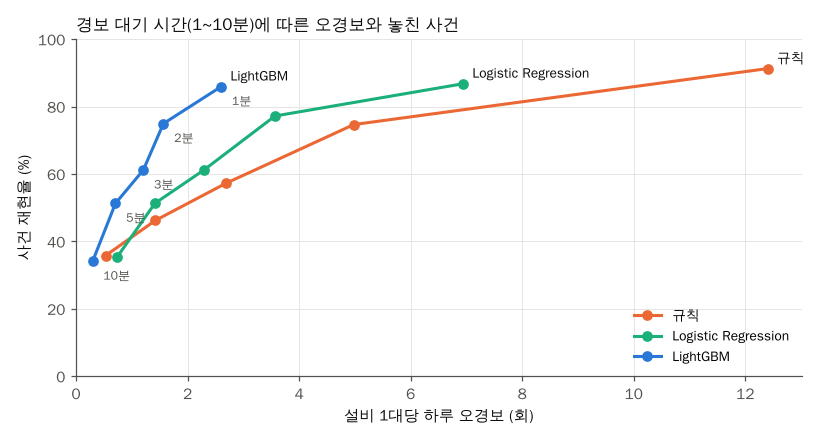
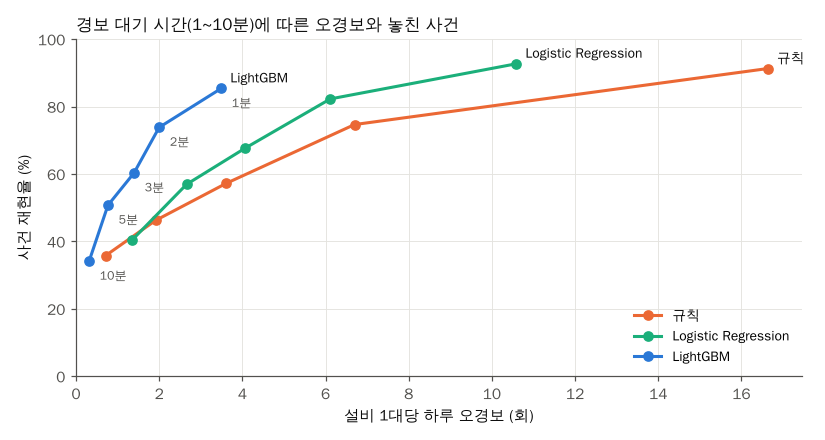
[기능/시각화] SHAP 그래프 추가, 결과 그래프 펌프 기준으로 갱신
- SHAP 상위 15개 특징, 마지막 이상 후 지난 분의 SHAP 산점도 추가
- 산점도는 이상 이력 없음 값이 오른쪽 끝에 몰려 로그 축 사용
- 무작위 기준선을 고정값(0.029) 대신 결과표의 양성 비율(0.039)에서 읽음

diff --git a/scripts/10_charts.py b/scripts/10_charts.py
@@ -15,7 +15,6 @@ from evaluate import PROJECT_ROOT, RESULTS_DIR
 # 02번 EDA 그래프와 같은 색. 세 번째 색(초록)은 배경 대비가 낮아 선마다 이름을 직접 붙임
 BLUE, ORANGE, AQUA = "#2a78d6", "#eb6834", "#1baf7a"
 INK, MUTED, GRID = "#0b0b0b", "#52514e", "#e4e3df"
-RANDOM_PR_AUC = 0.0292  # Validation 30분 양성 비율
 
 
 def set_korean_font():
@@ -30,7 +29,7 @@ def set_korean_font():
                          "grid.linewidth": 0.6, "axes.axisbelow": True, "figure.dpi": 110})
 
 
-def model_pr_auc(res, out):
+def model_pr_auc(res, out, random_pr_auc):
     order = ["규칙: 현재 전류고조파", "Logistic Regression (이력 없음 중앙값)", "Logistic Regression (이력 없음 표시)",
              "Random Forest", "LightGBM"]
     r = res.set_index("model").loc[order]
@@ -38,8 +37,9 @@ def model_pr_auc(res, out):
     ax.barh(range(len(r)), r["pr_auc"], color=BLUE, height=0.55)
     for i, v in enumerate(r["pr_auc"]):
         ax.text(v + 0.01, i, f"{v:.3f}", va="center", fontsize=9, color=INK)
-    ax.axvline(RANDOM_PR_AUC, color=MUTED, ls="--", lw=1)
-    ax.text(RANDOM_PR_AUC + 0.01, 0.5, "무작위 0.029", va="center", fontsize=8, color=MUTED)
+    # 무작위 점수의 PR-AUC는 양성 비율과 같음
+    ax.axvline(random_pr_auc, color=MUTED, ls="--", lw=1)
+    ax.text(random_pr_auc + 0.01, 0.5, f"무작위 {random_pr_auc:.3f}", va="center", fontsize=8, color=MUTED)
     ax.set_yticks(range(len(r)), r.index, fontsize=9)
     ax.invert_yaxis()
     ax.set_xlim(0, 0.85)
@@ -52,7 +52,7 @@ def model_pr_auc(res, out):
 
 
 def unit_split(res, out):
-    order = ["규칙: 현재 전류고조파", "Logistic Regression", "LightGBM"]
+    order = ["규칙", "Logistic Regression", "LightGBM"]
     p = res.pivot(index="model", columns="setting", values="pr_auc").loc[order]
     fig, ax = plt.subplots(figsize=(7.5, 3.2))
     w = 0.36
@@ -97,18 +97,63 @@ def alarm_tradeoff(res, out):
     plt.close(fig)
 
 
+def shap_top(imp, out, n=15):
+    r = imp.head(n)
+    fig, ax = plt.subplots(figsize=(7.5, 4.6))
+    ax.barh(range(len(r)), r["mean_abs_shap"], color=BLUE, height=0.6)
+    for i, (v, sh) in enumerate(zip(r["mean_abs_shap"], r["share"])):
+        ax.text(v + r["mean_abs_shap"].max() * 0.01, i, f"{sh:.1%}", va="center", fontsize=8, color=INK)
+    ax.set_yticks(range(len(r)), r["feature"], fontsize=9)
+    ax.invert_yaxis()
+    ax.grid(axis="y", visible=False)
+    ax.set_xlabel("평균 |SHAP| (log-odds)")
+    ax.set_title(f"LightGBM 예측에 크게 기여한 특징 상위 {n}개", loc="left", fontsize=11, color=INK)
+    fig.tight_layout()
+    fig.savefig(out)
+    plt.close(fig)
+
+
+def shap_dependence(d, out):
+    feature = d["feature"].iloc[0]
+    fig, ax = plt.subplots(figsize=(7.5, 4))
+    for t, color, label in [(0, BLUE, "30분 안에 이상 없음"), (1, ORANGE, "30분 안에 이상 발생")]:
+        r = d[d["target"] == t]
+        ax.scatter(r["value"], r["shap"], s=6, alpha=0.35 if t == 0 else 0.6, color=color, label=label, linewidths=0)
+    ax.axhline(0, color=MUTED, lw=1)
+    if d["value"].max() > 1000:
+        # 이상 이력 없음은 학습 기간 최댓값으로 채워 오른쪽 끝에 몰림. 선형 축일 경우, 나머지 점이 왼쪽에 뭉치는 문제 있음
+        ax.set_xscale("symlog", linthresh=10)
+        ax.set_xlim(left=0)
+        ax.annotate("이상 이력 없음", (d["value"].max(), 0), xytext=(-8, 10), textcoords="offset points",
+                    ha="right", fontsize=8, color=MUTED)
+    ax.set_xlabel(feature)
+    ax.set_ylabel("SHAP (log-odds)")
+    ax.legend(frameon=False, fontsize=9, loc="upper left", markerscale=3)
+    ax.set_title(f"{feature} 값에 따른 예측 기여", loc="left", fontsize=11, color=INK)
+    fig.tight_layout()
+    fig.savefig(out)
+    plt.close(fig)
+
+
 def main():
     p = argparse.ArgumentParser(description="실험 결과 그래프")
     p.add_argument("--src", default=RESULTS_DIR)
     p.add_argument("--dst", default=os.path.join(PROJECT_ROOT, "charts"))
     args = p.parse_args()
     set_korean_font()
-    model_pr_auc(pd.read_csv(os.path.join(args.src, "model_metrics.csv")), os.path.join(args.dst, "model_pr_auc.png"))
+    base = pd.read_csv(os.path.join(args.src, "baseline_metrics.csv")).set_index("model")
+    model_pr_auc(pd.read_csv(os.path.join(args.src, "model_metrics.csv")), os.path.join(args.dst, "model_pr_auc.png"),
+                 float(base.loc["항상 음성", "pr_auc"]))
     alarm_tradeoff(pd.read_csv(os.path.join(args.src, "alarm_rule_metrics.csv")),
                    os.path.join(args.dst, "alarm_rule_tradeoff.png"))
     unit_path = os.path.join(args.src, "unit_split_metrics.csv")
     if os.path.exists(unit_path):
         unit_split(pd.read_csv(unit_path), os.path.join(args.dst, "unit_split_pr_auc.png"))
+    shap_path = os.path.join(args.src, "shap_importance.csv")
+    if os.path.exists(shap_path):
+        shap_top(pd.read_csv(shap_path), os.path.join(args.dst, "shap_top.png"))
+        shap_dependence(pd.read_parquet(os.path.join(args.src, "shap_dependence_sample.parquet")),
+                        os.path.join(args.dst, "shap_dependence.png"))
     print("완료:", args.dst)
 
 
